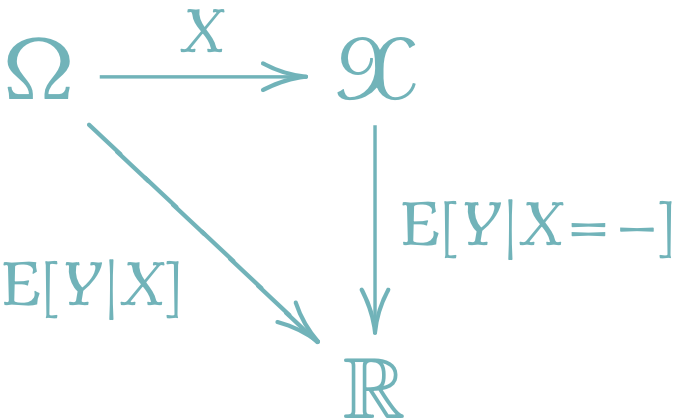
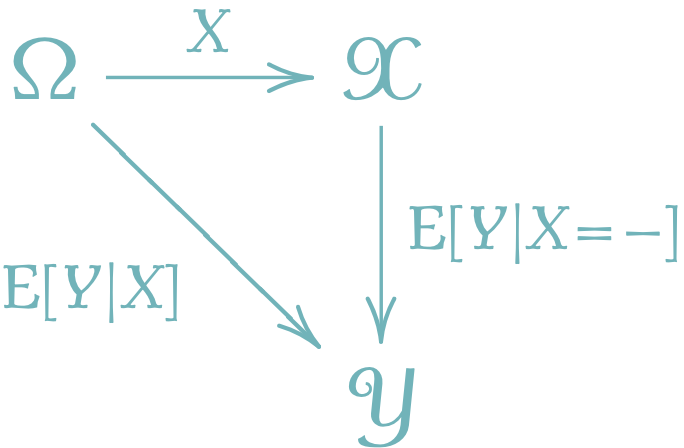
adding commutative diagram

diff --git a/docs/index.html b/docs/index.html
@@ -181,7 +181,7 @@ gtag('config', 'G-36GX2G6GLL', { 'anonymize_ip': true});
 
 <div class="quarto-listing quarto-listing-container-default" id="listing-listing">
 <div class="list quarto-listing-default">
-<div class="quarto-post image-right" data-index="0" data-categories="Functional Analysis,Math Notes" data-listing-date-sort="1701442800000" data-listing-file-modified-sort="1701570721893" data-listing-date-modified-sort="NaN" data-listing-reading-time-sort="1">
+<div class="quarto-post image-right" data-index="0" data-categories="Functional Analysis,Math Notes" data-listing-date-sort="1701442800000" data-listing-file-modified-sort="1701601696407" data-listing-date-modified-sort="NaN" data-listing-reading-time-sort="1">
 <div class="thumbnail">
 <p><a href="./posts/2023-12-2/BoundedMeasure.html"> <p class="card-img-top"><img src="posts/2023-12-2/Jordan.png"  class="thumbnail-image card-img"/></p> </a></p>
 </div>
@@ -219,7 +219,7 @@ Hirofumi Shiba
 </a>
 </div>
 </div>
-<div class="quarto-post image-right" data-index="1" data-categories="Probability,Math Notes" data-listing-date-sort="1701442800000" data-listing-file-modified-sort="1701603491807" data-listing-date-modified-sort="NaN" data-listing-reading-time-sort="2">
+<div class="quarto-post image-right" data-index="1" data-categories="Probability,Math Notes" data-listing-date-sort="1701442800000" data-listing-file-modified-sort="1701606565164" data-listing-date-modified-sort="NaN" data-listing-reading-time-sort="2">
 <div class="thumbnail">
 <p><a href="./posts/2023-12-2/条件付き期待値の問題.html"> <p class="card-img-top"><img src="posts/2023-12-2/CD.png"  class="thumbnail-image card-img"/></p> </a></p>
 </div>
@@ -257,7 +257,7 @@ Hirofumi Shiba
 </a>
 </div>
 </div>
-<div class="quarto-post image-right" data-index="2" data-categories="Life" data-listing-date-sort="1701356400000" data-listing-file-modified-sort="1701481770735" data-listing-date-modified-sort="NaN" data-listing-reading-time-sort="7">
+<div class="quarto-post image-right" data-index="2" data-categories="Life" data-listing-date-sort="1701356400000" data-listing-file-modified-sort="1701508855058" data-listing-date-modified-sort="NaN" data-listing-reading-time-sort="7">
 <div class="thumbnail">
 <p><a href="./posts/2023-12-1/BookRecommendation.html"> <p class="card-img-top"><img src="posts/2023-12-1/3-Takeshi-Saito.jpg"  class="thumbnail-image card-img"/></p> </a></p>
 </div>
@@ -292,7 +292,7 @@ Hirofumi Shiba
 </a>
 </div>
 </div>
-<div class="quarto-post image-right" data-index="3" data-categories="Particles" data-listing-date-sort="1700838000000" data-listing-file-modified-sort="1701479375837" data-listing-date-modified-sort="NaN" data-listing-reading-time-sort="1">
+<div class="quarto-post image-right" data-index="3" data-categories="Particles" data-listing-date-sort="1700838000000" data-listing-file-modified-sort="1701417875347" data-listing-date-modified-sort="NaN" data-listing-reading-time-sort="1">
 <div class="thumbnail">
 <p><a href="./posts/2023-11-25/ParticleFilter.html"> <div class="listing-item-img-placeholder card-img-top" >&nbsp;</div> </a></p>
 </div>
@@ -327,7 +327,7 @@ Hirofumi Shiba
 </a>
 </div>
 </div>
-<div class="quarto-post image-right" data-index="4" data-categories="Probability,Math Notes" data-listing-date-sort="1700751600000" data-listing-file-modified-sort="1701066120509" data-listing-date-modified-sort="NaN" data-listing-reading-time-sort="2">
+<div class="quarto-post image-right" data-index="4" data-categories="Probability,Math Notes" data-listing-date-sort="1700751600000" data-listing-file-modified-sort="1701092750033" data-listing-date-modified-sort="NaN" data-listing-reading-time-sort="2">
 <div class="thumbnail">
 <p><a href="./posts/2023-11-24/Beta-Gamma.html"> <p class="card-img-top"><img src="posts/2023-11-24/Beta-Gamma_files/figure-html/cell-2-output-1.png"  class="thumbnail-image card-img"/></p> </a></p>
 </div>
@@ -365,7 +365,7 @@ Hirofumi Shiba
 </a>
 </div>
 </div>
-<div class="quarto-post image-right" data-index="5" data-categories="Lifestyle,Python" data-listing-date-sort="1700665200000" data-listing-file-modified-sort="1700716916584" data-listing-date-modified-sort="NaN" data-listing-reading-time-sort="2">
+<div class="quarto-post image-right" data-index="5" data-categories="Lifestyle,Python" data-listing-date-sort="1700665200000" data-listing-file-modified-sort="1700986492849" data-listing-date-modified-sort="NaN" data-listing-reading-time-sort="2">
 <div class="thumbnail">
 <p><a href="./posts/2023-11-23/書き起こし.html"> <p class="card-img-top"><img src="posts/2023-11-23/img.png"  class="thumbnail-image card-img"/></p> </a></p>
 </div>
@@ -403,7 +403,7 @@ Hirofumi Shiba
 </a>
 </div>
 </div>
-<div class="quarto-post image-right" data-index="6" data-categories="草野数理法務" data-listing-date-sort="1700578800000" data-listing-file-modified-sort="1700929823536" data-listing-date-modified-sort="NaN" data-listing-reading-time-sort="2">
+<div class="quarto-post image-right" data-index="6" data-categories="草野数理法務" data-listing-date-sort="1700578800000" data-listing-file-modified-sort="1700986492848" data-listing-date-modified-sort="NaN" data-listing-reading-time-sort="2">
 <div class="thumbnail">
 <p><a href="./posts/2023-11-22/法律家のための統計数理1.html"> <p class="card-img-top"><img src="posts/2023-11-22/img.jpg"  class="thumbnail-image card-img"/></p> </a></p>
 </div>
@@ -438,7 +438,7 @@ Hirofumi Shiba
 </a>
 </div>
 </div>
-<div class="quarto-post image-right" data-index="7" data-categories="Math Notes" data-listing-date-sort="1700578800000" data-listing-file-modified-sort="1701065832402" data-listing-date-modified-sort="NaN" data-listing-reading-time-sort="2">
+<div class="quarto-post image-right" data-index="7" data-categories="Math Notes" data-listing-date-sort="1700578800000" data-listing-file-modified-sort="1700986724458" data-listing-date-modified-sort="NaN" data-listing-reading-time-sort="2">
 <div class="thumbnail">
 <p><a href="./posts/2023-11-22/独立性.html"> <p class="card-img-top"><img src="posts/2023-11-22/formula.png"  class="thumbnail-image card-img"/></p> </a></p>
 </div>
@@ -473,7 +473,7 @@ Hirofumi Shiba
 </a>
 </div>
 </div>
-<div class="quarto-post image-right" data-index="8" data-categories="Math Notes" data-listing-date-sort="1700146800000" data-listing-file-modified-sort="1701515177128" data-listing-date-modified-sort="NaN" data-listing-reading-time-sort="1">
+<div class="quarto-post image-right" data-index="8" data-categories="Math Notes" data-listing-date-sort="1700146800000" data-listing-file-modified-sort="1701516484537" data-listing-date-modified-sort="NaN" data-listing-reading-time-sort="1">
 <div class="thumbnail">
 <p><a href="./posts/2023-11-17/条件付き正規分布からのシミュレーション法.html"> <p class="card-img-top"><img src="posts/2023-11-17/formula.png"  class="thumbnail-image card-img"/></p> </a></p>
 </div>
@@ -508,7 +508,7 @@ Hirofumi Shiba
 </a>
 </div>
 </div>
-<div class="quarto-post image-right" data-index="9" data-categories="Synthetic Probability,Probability" data-listing-date-sort="1699628400000" data-listing-file-modified-sort="1700715164345" data-listing-date-modified-sort="NaN" data-listing-reading-time-sort="1">
+<div class="quarto-post image-right" data-index="9" data-categories="Synthetic Probability,Probability" data-listing-date-sort="1699628400000" data-listing-file-modified-sort="1700986492846" data-listing-date-modified-sort="NaN" data-listing-reading-time-sort="1">
 <div class="thumbnail">
 <p><a href="./posts/2023-11-11/index.html"> <p class="card-img-top"><img src="posts/2023-11-11/img.png"  class="thumbnail-image card-img"/></p> </a></p>
 </div>
@@ -546,7 +546,7 @@ Hirofumi Shiba
 </a>
 </div>
 </div>
-<div class="quarto-post image-right" data-index="10" data-categories="Bibliography Catalogue" data-listing-date-sort="1699542000000" data-listing-file-modified-sort="1700884184286" data-listing-date-modified-sort="NaN" data-listing-reading-time-sort="1">
+<div class="quarto-post image-right" data-index="10" data-categories="Bibliography Catalogue" data-listing-date-sort="1699542000000" data-listing-file-modified-sort="1700986492845" data-listing-date-modified-sort="NaN" data-listing-reading-time-sort="1">
 <div class="thumbnail">
 <p><a href="./posts/2023-11-10/index.html"> <p class="card-img-top"><img src="posts/2023-11-10/img.png"  class="thumbnail-image card-img"/></p> </a></p>
 </div>
@@ -581,7 +581,7 @@ Hirofumi Shiba
 </a>
 </div>
 </div>
-<div class="quarto-post image-right" data-index="11" data-categories="Books,Particles" data-listing-date-sort="1699455600000" data-listing-file-modified-sort="1700715259279" data-listing-date-modified-sort="NaN" data-listing-reading-time-sort="2">
+<div class="quarto-post image-right" data-index="11" data-categories="Books,Particles" data-listing-date-sort="1699455600000" data-listing-file-modified-sort="1700986492854" data-listing-date-modified-sort="NaN" data-listing-reading-time-sort="2">
 <div class="thumbnail">
 <p><a href="./posts/2023-11-9/index.html"> <p class="card-img-top"><img src="posts/2023-11-9/img.jpg"  class="thumbnail-image card-img"/></p> </a></p>
 </div>
@@ -619,7 +619,7 @@ Hirofumi Shiba
 </a>
 </div>
 </div>
-<div class="quarto-post image-right" data-index="12" data-categories="Books,Particles" data-listing-date-sort="1699369200000" data-listing-file-modified-sort="1700715292152" data-listing-date-modified-sort="NaN" data-listing-reading-time-sort="1">
+<div class="quarto-post image-right" data-index="12" data-categories="Books,Particles" data-listing-date-sort="1699369200000" data-listing-file-modified-sort="1700986492854" data-listing-date-modified-sort="NaN" data-listing-reading-time-sort="1">
 <div class="thumbnail">
 <p><a href="./posts/2023-11-8/index.html"> <p class="card-img-top"><img src="posts/2023-11-8/img.png"  class="thumbnail-image card-img"/></p> </a></p>
 </div>
@@ -657,7 +657,7 @@ Hirofumi Shiba
 </a>
 </div>
 </div>
-<div class="quarto-post image-right" data-index="13" data-categories="Kernel Methods,Math Notes" data-listing-date-sort="1699282800000" data-listing-file-modified-sort="1700920673040" data-listing-date-modified-sort="NaN" data-listing-reading-time-sort="2">
+<div class="quarto-post image-right" data-index="13" data-categories="Kernel Methods,Math Notes" data-listing-date-sort="1699282800000" data-listing-file-modified-sort="1700986492853" data-listing-date-modified-sort="NaN" data-listing-reading-time-sort="2">
 <div class="thumbnail">
 <p><a href="./posts/2023-11-7/KernelMethods4Mathematicians.html"> <p class="card-img-top"><img src="posts/2023-11-7/img.jpg"  class="thumbnail-image card-img"/></p> </a></p>
 </div>
@@ -695,7 +695,7 @@ Hirofumi Shiba
 </a>
 </div>
 </div>
-<div class="quarto-post image-right" data-index="14" data-categories="Particles,Economics,Nowcast" data-listing-date-sort="1699196400000" data-listing-file-modified-sort="1700196020152" data-listing-date-modified-sort="NaN" data-listing-reading-time-sort="1">
+<div class="quarto-post image-right" data-index="14" data-categories="Particles,Economics,Nowcast" data-listing-date-sort="1699196400000" data-listing-file-modified-sort="1700986492851" data-listing-date-modified-sort="NaN" data-listing-reading-time-sort="1">
 <div class="thumbnail">
 <p><a href="./posts/2023-11-6/index.html"> <p class="card-img-top"><img src="posts/2023-11-6/SSM.png"  class="thumbnail-image card-img"/></p> </a></p>
 </div>
@@ -736,7 +736,7 @@ Hirofumi Shiba
 </a>
 </div>
 </div>
-<div class="quarto-post image-right" data-index="15" data-categories="News,Lifestyle" data-listing-date-sort="1699110000000" data-listing-file-modified-sort="1700715573479" data-listing-date-modified-sort="1699196400000" data-listing-reading-time-sort="1">
+<div class="quarto-post image-right" data-index="15" data-categories="News,Lifestyle" data-listing-date-sort="1699110000000" data-listing-file-modified-sort="1700986492851" data-listing-date-modified-sort="1699196400000" data-listing-reading-time-sort="1">
 <div class="thumbnail">
 <p><a href="./posts/2023-11-5/index.html"> <p class="card-img-top"><img src="posts/2023-11-5/standingdesk.jpg"  class="thumbnail-image card-img"/></p> </a></p>
 </div>
@@ -774,7 +774,7 @@ Hirofumi Shiba
 </a>
 </div>
 </div>
-<div class="quarto-post image-right" data-index="16" data-categories="Quarto,Lifestyle" data-listing-date-sort="1699023600000" data-listing-file-modified-sort="1700996464142" data-listing-date-modified-sort="NaN" data-listing-reading-time-sort="2">
+<div class="quarto-post image-right" data-index="16" data-categories="Quarto,Lifestyle" data-listing-date-sort="1699023600000" data-listing-file-modified-sort="1700989230319" data-listing-date-modified-sort="NaN" data-listing-reading-time-sort="2">
 <div class="thumbnail">
 <p><a href="./posts/2023-11-4/QuartoBasics.html"> <p class="card-img-top"><img src="posts/2023-11-4/QuartoBasics_files/figure-html/fig-polar-output-1.png"  class="thumbnail-image card-img"/></p> </a></p>
 </div>
@@ -812,7 +812,7 @@ Hirofumi Shiba
 </a>
 </div>
 </div>
-<div class="quarto-post image-right" data-index="17" data-categories="Review,Medicine" data-listing-date-sort="1698505200000" data-listing-file-modified-sort="1700715639201" data-listing-date-modified-sort="NaN" data-listing-reading-time-sort="1">
+<div class="quarto-post image-right" data-index="17" data-categories="Review,Medicine" data-listing-date-sort="1698505200000" data-listing-file-modified-sort="1700986492843" data-listing-date-modified-sort="NaN" data-listing-reading-time-sort="1">
 <div class="thumbnail">
 <p><a href="./posts/2023-10-29/index.html"> <p class="card-img-top"><img src="posts/2023-10-29/img.png"  class="thumbnail-image card-img"/></p> </a></p>
 </div>
@@ -850,7 +850,7 @@ Hirofumi Shiba
 </a>
 </div>
 </div>
-<div class="quarto-post image-right" data-index="18" data-categories="News" data-listing-date-sort="1698332400000" data-listing-file-modified-sort="1700715820133" data-listing-date-modified-sort="1698505200000" data-listing-reading-time-sort="1">
+<div class="quarto-post image-right" data-index="18" data-categories="News" data-listing-date-sort="1698332400000" data-listing-file-modified-sort="1700986492855" data-listing-date-modified-sort="1698505200000" data-listing-reading-time-sort="1">
 <div class="thumbnail">
 <p><a href="./posts/welcome/index.html"> <p class="card-img-top"><img src="posts/welcome/img.png"  class="thumbnail-image card-img"/></p> </a></p>
 </div>

diff --git a/docs/posts/2023-12-2/条件付き期待値の問題.html b/docs/posts/2023-12-2/条件付き期待値の問題.html
@@ -99,8 +99,8 @@ gtag('config', 'G-36GX2G6GLL', { 'anonymize_ip': true});
 <meta property="og:description" content="A Blog by a Bayesian Computation Researcher">
 <meta property="og:image" content="https://github.com/162348/posts/2023-12-2/CD.png">
 <meta property="og:site-name" content="Ano2math5">
-<meta property="og:image:height" content="418">
-<meta property="og:image:width" content="678">
+<meta property="og:image:height" content="448">
+<meta property="og:image:width" content="684">
 <meta name="twitter:title" content="Ano2math5 - 条件付き期待値の測度論的基礎付け">
 <meta name="twitter:description" content="A Blog by a Bayesian Computation Researcher">
 <meta name="twitter:image" content="https://github.com/162348/cover.PNG">
@@ -300,18 +300,18 @@ $$
 </div>
 </div>
 <div class="callout-body-container callout-body">
-<p><span class="math inline">\(S\)</span> を位相空間とする．確率変数 <span class="math inline">\(X\in\mathcal{L}(\Omega;S)\)</span> による <span class="math inline">\(Y\in\mathcal{L}^1(\Omega)\)</span> の<strong>条件付き期待値</strong>は，次を満たす可測関数 <span class="math inline">\(E[Y|X=-]:S\to\mathbb{R}\)</span> のことをいう： <span class="math display">\[
+<p><span class="math inline">\((E,\mathcal{E})\)</span> を可測空間とする．確率変数 <span class="math inline">\(X\in\mathcal{L}(\Omega;E)\)</span> による <span class="math inline">\(Y\in\mathcal{L}^1(\Omega)\)</span> の<strong>条件付き期待値</strong>は，次を満たす可測関数 <span class="math inline">\(E[Y|X=-]:E\to\mathbb{R}\)</span> のことをいう： <span class="math display">\[
 \begin{align*}
-\forall_{B\in\mathcal{B}(S)}\quad&amp;\int_{X^{-1}(B)}Y(\omega)P(d\omega)\\
+\forall_{B\in\mathcal{E}}\quad&amp;\int_{X^{-1}(B)}Y(\omega)P(d\omega)\\
 &amp;\quad=\int_BE[Y|X=x]P^X(dx).
 \end{align*}
 \]</span></p>
 </div>
 </div>
-<p><span class="math inline">\((E,\mathcal{E})\)</span> を可測空間とし，確率変数 <span class="math inline">\(X:\Omega\to E\)</span> を与えた下での条件付き期待値 <span class="math inline">\(\mathbb{E}[Y|X]\)</span> を，<span class="math inline">\(X\)</span> が <span class="math inline">\(\Omega\)</span> 上に引き戻す <span class="math inline">\(\sigma\)</span>-代数 <span class="math display">\[
+<p>すると，<span class="math inline">\(X\)</span> が <span class="math inline">\(\Omega\)</span> 上に引き戻す <span class="math inline">\(\sigma\)</span>-代数 <span class="math display">\[
 \sigma(X):=\left\{A\subset\Omega\mid\exists_{B\in\mathcal{E}}\; X^{-1}(B)=A\right\}
-\]</span> を与えた下での条件付き期待値 <span class="math inline">\(\mathbb{E}[Y|\sigma(X)]\)</span> と定める．<a href="#fn1" class="footnote-ref" id="fnref1" role="doc-noteref"><sup>1</sup></a> すると <span class="math inline">\(\mathbb{E}[Y|X]\)</span> は <span class="math inline">\(\sigma[X]\)</span>-可測であるが，可測性の特徴付け（後述）から，これはあるBorel可測関数 <span class="math inline">\(f\)</span> について，<span class="math display">\[E[Y|X]=f(X)\;\;\mathrm{a.s.}\]</span> と表せる．<strong>この <span class="math inline">\(f:\mathcal{X}\to\mathbb{R}\)</span> が，<span class="math inline">\(X\)</span> を与えた下での <span class="math inline">\(Y\)</span> の条件付き期待値</strong>である．</p>
-<p>よくある記法 <span class="math inline">\(\mathbb{E}[Y|X=x]\)</span> とは何かというと，<span class="math inline">\(X\)</span> の値域 <span class="math inline">\(\mathcal{X}\)</span> 上の関数として，新たに <span class="math display">\[\mathbb{E}[Y|X=x]:=f(x)\;\;\mathrm{a.s.}\]</span> と書くことにするのである．<a href="#fn2" class="footnote-ref" id="fnref2" role="doc-noteref"><sup>2</sup></a> すると， <span class="math display">\[
+\]</span> を与えた下での条件付き期待値 <span class="math inline">\(\mathbb{E}[Y|\sigma(X)]\)</span> と，次のように関係する．<a href="#fn1" class="footnote-ref" id="fnref1" role="doc-noteref"><sup>1</sup></a> <span class="math inline">\(\mathbb{E}[Y|\sigma(X)]\)</span> は定義 <a href="#sec-def">Section&nbsp;1.1</a> 1から <span class="math inline">\(\sigma[X]\)</span>-可測であるが，可測性の特徴付け（後述）から，これはあるBorel可測関数 <span class="math inline">\(f\)</span> について，<span class="math display">\[E[Y|X]=f(X)\;\;\mathrm{a.s.}\]</span> と表せる．<strong>この <span class="math inline">\(f:\mathcal{X}\to\mathbb{R}\)</span> が，<span class="math inline">\(X\)</span> を与えた下での <span class="math inline">\(Y\)</span> の条件付き期待値</strong> <span class="math inline">\(\mathbb{E}[Y|X=-]\)</span> である．</p>
+<p>この記法 <span class="math inline">\(\mathbb{E}[Y|X=x]\)</span> とは何かというと，<span class="math inline">\(X\)</span> の値域 <span class="math inline">\(\mathcal{X}\)</span> 上の関数として，新たに <span class="math display">\[\mathbb{E}[Y|X=x]:=f(x)\;\;\mathrm{a.s.}\]</span> と書くことにするのである．<a href="#fn2" class="footnote-ref" id="fnref2" role="doc-noteref"><sup>2</sup></a> すると， <span class="math display">\[
 \mathbb{E}[Y|X=x]|_{x=X(\omega)}=\mathbb{E}[Y|X](\omega)\;\;\mathrm{a.s.}
 \]</span> も満たす．つまり，次の図式が可換である：</p>
 <div class="quarto-figure quarto-figure-center">
